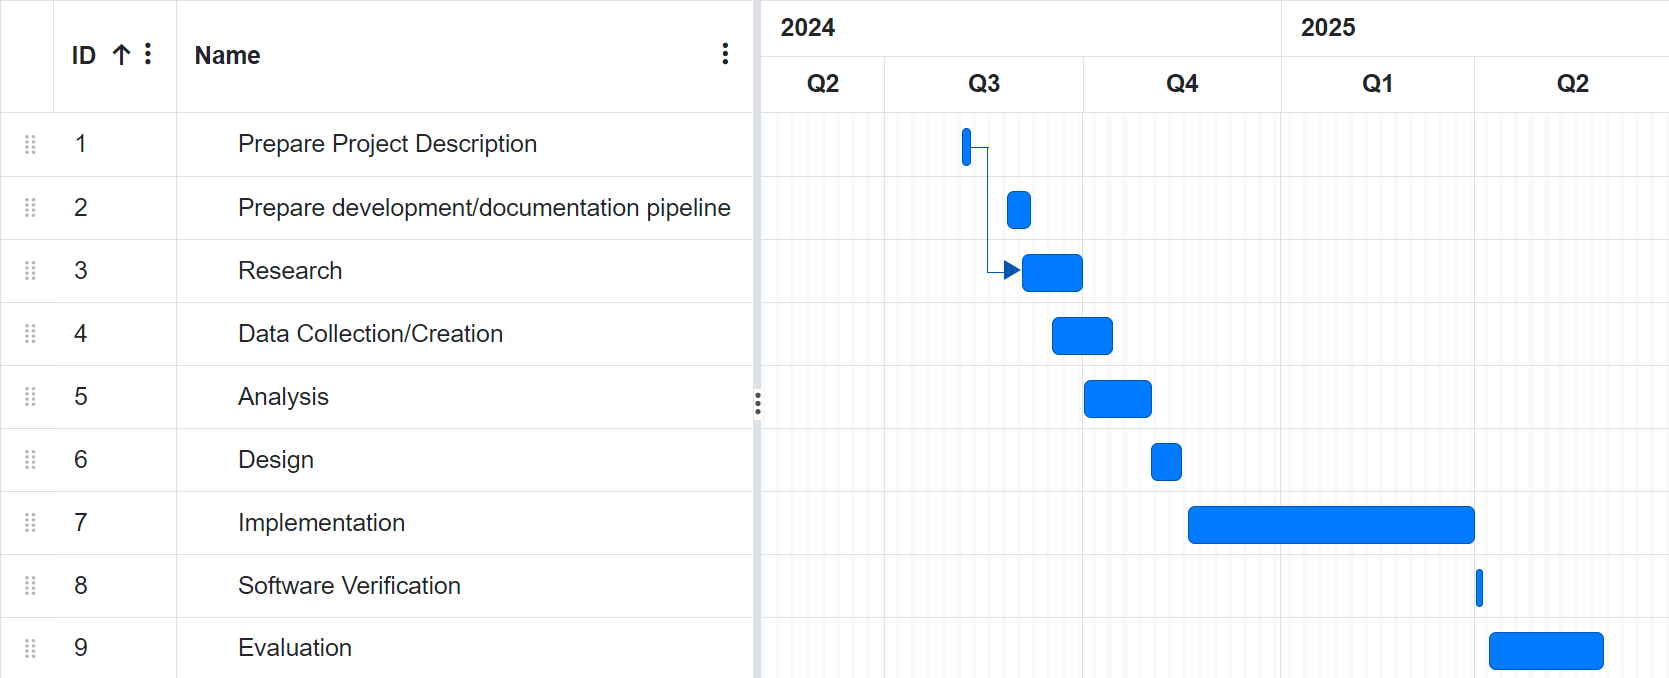
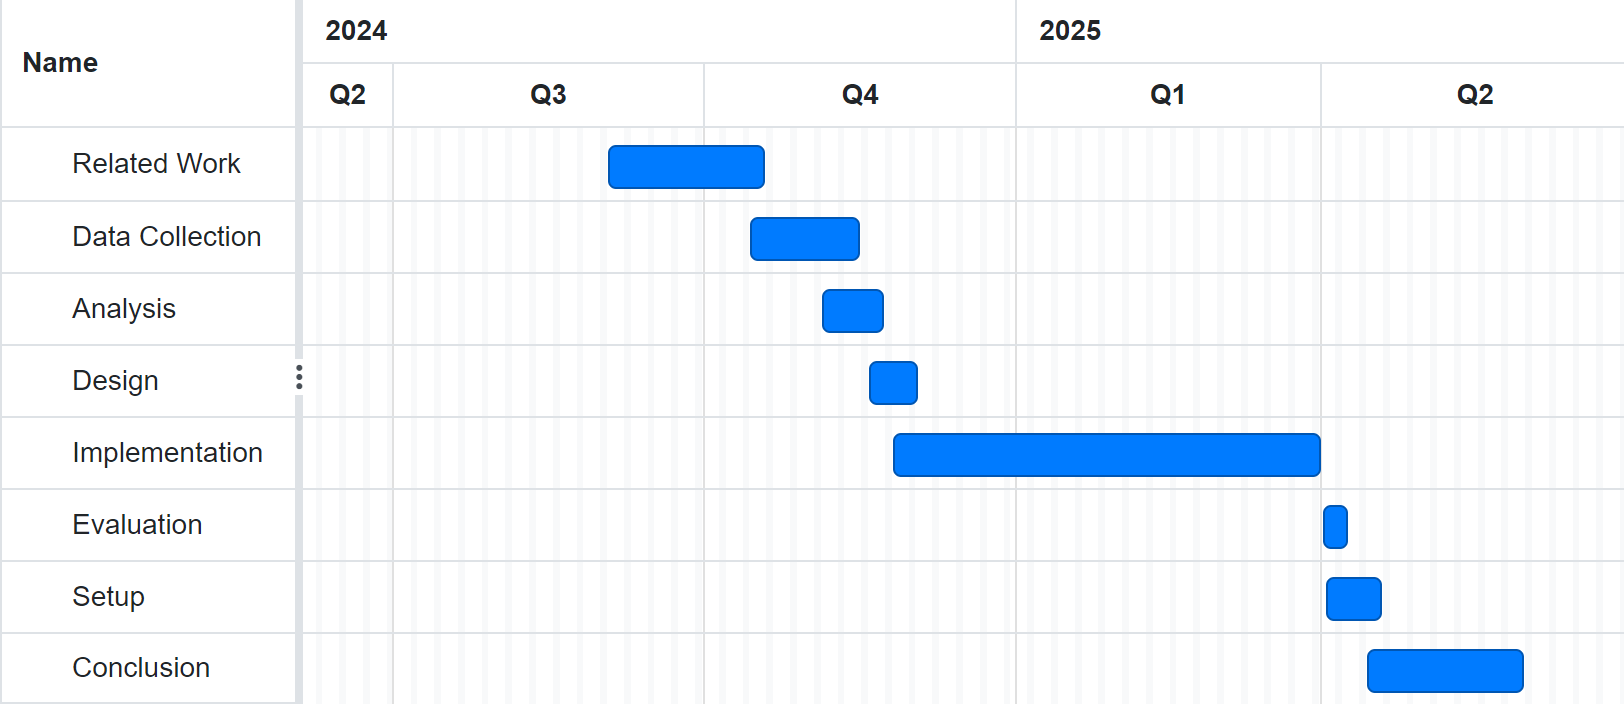
update to the problemdescription

diff --git a/Writing/Problemformulering/main.tex b/Writing/Problemformulering/main.tex
@@ -54,17 +54,18 @@ backend=bibtex
 \usetikzlibrary{snakes}
 \usepackage{rotating}
 
-\title{Title}
+\title{Event prediction using values and the relation to other values}
 \author{Simon dos Reis Spedsbjerg}
 
-\newcommand{\Phases}{7 }
+\newcommand{\Phases}{8 }
 \newcommand{\phaseq}{Related Work}
 \newcommand{\phasew}{Data Collection}
 \newcommand{\phasee}{Analysis}
 \newcommand{\phaser}{Design}
 \newcommand{\phaset}{Implementation}
-\newcommand{\phasey}{Software Evaluation}
-\newcommand{\phaseu}{Evaluation}
+\newcommand{\phaseSetup}{Setup}
+\newcommand{\phasey}{Evaluation}
+\newcommand{\phaseu}{Conclusion}
 
 \usepackage{biblatex}
 
@@ -75,36 +76,37 @@ backend=bibtex
 \begin{document}
 	\maketitle
 	\section{Context}
-		The amount of data collected forever increases, and systems ever become more dependent on the quality of the data. Faulty time series data may damage the quality of analysis that is performed on the data, and outlier data may indicate another system is failing, or an uncommon phenomenon has occurred. As sensor values rarely are independent of other environmental variables, decrease in temperature leads to increase in power consumption for heating leads to higher heating bill. While if power consumption did not rise might indicate that the people have extra cloths on or is using another heat source. The goal is to predict future events or explain current events so the administrator of the system can proactively mitigate the event. Sensors that give of data which is abnormal might indicate need for maintenance\cite{MUKHERJEE2024102444}, a specific event, or a successful intrusion into some parts of the system\cite{MR2022103046}. Information to predict events or needs has become an interest in many sectors, Mukherjee, A\cite{MUKHERJEE2024102444} cites transport, manufacturing, water, and power, while they themselves trying to predict maintenance for container cranes. Predicting ongoing events might have high importance when it comes to cyberattacks. Gauthama et al. worked on analysing possible attack detection systems in a water treatment plant using its multipoint IOT sensory system\cite{MR2022103046}.
-			
+		The amount of data collected is ever increasing, and analysis and predictive systems ever become more dependent on the quality of the data. Faulty (caused by an error in the system) or abnormal (caused by an event that does not represent the system) data may damage the quality of analysis that is performed on the data. The abnormal data point may indicate another system is failing, or an unrepresentative event is at play and may need someone to take a look at the system. As sensor values rarely are independent of environmental variables outside those they are designed to react to, we could expect a decrease in outside temperature to lead to an increase in power consumption for heating thus a higher heating bill. If a power consumption is not observed, then this may indicate that the occupants are dressing warmer or are using another heat source that we are not measuring. To be able to predict future events or explain current events can allow for proactive mitigation. Sensors that give data that is abnormal might indicate the need for maintenance\cite{MUKHERJEE2024102444}, an upcoming domain specific event, or a successful intrusion into some parts of the system\cite{MR2022103046}. Information to predict events or needs has become an interest in many sectors. Mukherjee, A\cite{MUKHERJEE2024102444} cites the transport, manufacturing, water, and power domains, while they try to predict maintenance for container cranes. Predicting ongoing events might be important when it comes to cyberattacks. Gauthama et al. worked on predicting an ongoing event of a possible attack in a water treatment plant using its multipoint IoT sensory system\cite{MR2022103046}.
+		I define \gls{reps} as a system that attempts to predict an event based on changes to a value and values which it shares any form of relation with. A value could be a value read from a sensor.
+
 	\section{Problem}
-		I define \gls{reps} as a system which attempts to predict an event based on changes to a variable and variables which it shares any form of relation with.\\
 		Research Questions:
 		\begin{itemize}
-			\item RQ1: What is the benefit of a \gls{reps} in a system with multiple sensors?
-			\item RQ2: What advantages and disadvantages does \gls{reps} have compared to state-of-the-art solutions?
+			\item RQ1: How well does \gls{reps} perform in a system with multiple sensors?
+			\item RQ2: What advantages and disadvantages does \gls{reps} have compared to other state-of-the-art solutions?
 		\end{itemize}
 	\newpage
 	\section{Approach}
-		To find answers to the research questions, I propose 2 approaches: 
+		To find answers to the research questions, I choose either of 2 approaches depending on availability of data: 
 		\begin{itemize}
-			\item \textbf{Qualitative Comparison}, using the data I will simulate a real-life system using separate computers as individual systems where my system, \gls{reps}, will try to make predictions. I will also implement other algorithms that tries to solve the same or similar problems, and make qualitative comparisons to determine whether \gls{reps} has any validity.
-			\item \textbf{Digital Twin}, The second approach is to set up digital twins of systems where the \gls{reps} would be a fit and generate the data live and then compare it to state-of-the-art solutions to determine the validity of \gls{reps} system. This will require constant attention that the digital twins do not give an advantage to \gls{reps} when compared to other algorithms which solves the same problem.
+			\item \textbf{Data Based Prediction}, using the data I will simulate a real-life system using separate computers as individual systems where the \gls{reps} will try to make predictions. I will also make use other publicly available algorithms that tries to solve the same or similar problems, and make qualitative comparisons to determine whether \gls{reps} has validity.
+			\item \textbf{Digital Twin}, defined as digital model of a physical system. The second approach is to set up digital twins of systems where the \gls{reps} would generate data live and then compare it to similar publicly available solutions to determine the validity of \gls{reps} system. This will require constant attention that the digital twins do not give an unfair advantage to \gls{reps} when compared to other algorithms to avoid bias towards \gls{reps}.
 		\end{itemize}
-		 
+		Then a comparison between the \gls{reps} and other available algorithms is performed where they will be measured for any relevant attributes in performing their task in predicting future events and thereby answering the research questions.
 		
 		
 	\section{Timeline}
-	I intend to go into \Phases phases during this project.
-		\begin{itemize}
+	I intend to go into \Phases phases during this project. This timeline will most likely change during the project as many unknowns still exists, but it serves as a subjective view of the time needed for the different phases based on my previous experience.
+		\begin{enumerate}
 			\item \textbf{\phaseq}, develop a clear and thorough understanding of the current state of research in anomaly detection and 'fault detection and diagnosis' by creating a systematic literature review of the subjects.
 			\item \textbf{\phasew}, Collect or create relevant data depending on the results of the \phaseq \space which is relevant to the subject. As the results will be drawn on the solution's ability to handle the data, the quality of the data has a high impact on the project.
 			\item \textbf{\phasee}, analyse the problem with the help of software engineering methods based on the \phaseq \space results.
-			\item \textbf{\phaser}, design a theoretical solution to the problem specified in the \phasee \space phase with software engineering methods.
-			\item \textbf{\phaset}, develop the project based on the results of the \phasee \space and \phaser \space using software engineering methods. This includes setup for any experimentations.
-			\item \textbf{\phasey}, how well does the solution fulfil the requirements determined in the \phasee \space phase and does it implement all features which is deemed critical .
-			\item \textbf{\phaseu}, verify the results from the project and check if it fulfils the hypothesis. From this, draw a conclusion.
-		\end{itemize}
+			\item \textbf{\phaser}, design a solution to the problem specified in the \phasee \space phase with software engineering methods so it can be efficiently implemented.
+			\item \textbf{\phaset}, develop the project based on the results of the \phasee \space and the \phaser \space using software engineering methods. This includes setup for any experimentations.
+			\item \textbf{\phasey}, how well does the solution fulfil the requirements determined in the \phasee \space phase and does it implement all features which is deemed critical.
+			\item \textbf{\phaseSetup}, the setup may involve many tools which need setup, this could be for stress testing, having several data producers on each their own services.
+			\item \textbf{\phaseu}, Evaluate the results from the project and how well the results answers the research questions. From this, draw a conclusion.
+		\end{enumerate}
 	
 	In the following, we see the expected timeline for the project.\newline
 	%Timeline
@@ -121,41 +123,47 @@ backend=bibtex
 			\draw (-6,0) node[below=3pt] {\begin{turn}{45}\scriptsize 04/08$\rightarrow$09/08\end{turn}}
 			node[above=3pt] {\scriptsize\begin{turn}{45}Problem Description\end{turn}}; %start date
 			\draw (-4.5,0)
-			node[below=3pt] {\begin{turn}{45}\scriptsize 02/09$\rightarrow$30/09\end{turn}}
+			node[below=3pt] {\begin{turn}{45}\scriptsize 02/09$\rightarrow$18/10\end{turn}}
 			node[above=3pt] {\scriptsize\begin{turn}{45}\phaseq\end{turn}};
 			
 			\draw (-3,0)
-			node[below=3pt] {\begin{turn}{45}\scriptsize 16/09$\rightarrow$14/10\end{turn}}
+			node[below=3pt] {\begin{turn}{45}\scriptsize 14/10$\rightarrow$15/11\end{turn}}
 			node[above=3pt] {\scriptsize\begin{turn}{45}
 					\phasew
 			\end{turn}};
 			
 			\draw (-1.5,0)
-			node[below=3pt] {\begin{turn}{45}\scriptsize 01/10$\rightarrow$01/11\end{turn}}
+			node[below=3pt] {\begin{turn}{45}\scriptsize 04/11$\rightarrow$22/11\end{turn}}
 			node[above=3pt] {\scriptsize\begin{turn}{45}
 					\phasee
 			\end{turn}};
 			
 			\draw (0,0)
-			node[below=3pt] {\begin{turn}{45}\scriptsize 01/11$\rightarrow$15/11\end{turn}}
+			node[below=3pt] {\begin{turn}{45}\scriptsize 18/11$\rightarrow$2/12\end{turn}}
 			node[above=3pt] {\scriptsize\begin{turn}{45}
 					\phaser
 			\end{turn}};
 			
 			\draw (1.5,0)
-			node[below=3pt] {\begin{turn}{45}\scriptsize 18/11$\rightarrow$31/03\end{turn}}
+			node[below=3pt] {\begin{turn}{45}\scriptsize 25/11$\rightarrow$31/03\end{turn}}
 			node[above=3pt] {\scriptsize\begin{turn}{45}
 					\phaset
 			\end{turn}};
 			
 			\draw (3,0)
-			node[below=3pt] {\begin{turn}{45}\scriptsize 01/04$\rightarrow$04/04\end{turn}}
+			node[below=3pt] {\begin{turn}{45}\scriptsize 01/04$\rightarrow$08/04\end{turn}}
 			node[above=3pt] {\scriptsize\begin{turn}{45}
 					\phasey
 			\end{turn}};
 			
+			\draw (3.75,0)
+			node[below=3pt] {\begin{turn}{45}\scriptsize 02/04$\rightarrow$18/04\end{turn}}
+			node[above=3pt] {\scriptsize\begin{turn}{45}
+					\phaseSetup
+			\end{turn}};
+			
 			\draw (4.5,0)
-			node[below=3pt] {\begin{turn}{45}\scriptsize 07/04$\rightarrow$30/05\end{turn}}
+			node[below=3pt] {\begin{turn}{45}\scriptsize 14/04$\rightarrow$30/05\end{turn}}
 			node[above=3pt] {\scriptsize\begin{turn}{45}
 					\phaseu
 			\end{turn}};
@@ -163,14 +171,13 @@ backend=bibtex
 			\draw (6,0) node[below=3pt]{\begin{turn}{45}\scriptsize 30/05$\rightarrow$END\end{turn}} node[above=3pt] {\scriptsize\begin{turn}{45} Finish \end{turn}};%end date
 		\end{tikzpicture}
 	\end{center}
-	{\scriptsize a Gantt version exists in appendix}\\
 	Every 1-4 weeks a plan will be made detailing the coming weeks' task. Each time a plan is made, the previous weeks will be documented on what went well, okay, not so well, and terribly. This is so the supervisor and I can create a perspective and course correct if need be.
 	
-	The plan is to hold meetings with the supervisor at least every week, an agenda will be send to the supervisor at minimum 48 hours before the meeting.
+	The plan is to hold meetings with the supervisor every week, an agenda will be send to the supervisor at minimum 48 hours before the meeting.
 
 	
 	\section{Preliminaries/Feasibility}
-		The will have a high chance of success based on the risk analysis and as long the mitigation tactics are used.
+		The project will have a high chance of success based on the risk analysis and as long the mitigation tactics are used.
 	
 		\subsection{Risk analysis}
 			The risk levels are as follows, insignificant, very low, low, medium, high, very high. This is the likelihood of the risk coming true. An impact value is also set and it has the same levels as the risk levels. Mitigation is the tactic and how well it can be mitigated if the risk were to happen. All these factors will be taken into consideration throughout the project's lifetime based on the cost-benefit.
@@ -180,9 +187,9 @@ backend=bibtex
 					\hline
 					Risk Type & Description & Risk & Impact & Mitigation & Comments \\ \hline
 					Missing Related work & There is not enough related work to form a proper ground for research & Insignificant & Very high & Reformulate research question & Already from the research that I have read for this topic, it is clear that there is more than enough. \\ \hline
-					Unable to gather data for simulations & Either I am able to gain the data or I will have to set up some form of a digital twin. & Medium & Medium & Set up digital twins; what the twin is of will be decided after going through related work & The twin is not intended to fit perfectly with the system that I intend to implement, it is supposed to be used to decide whether it is in general a possible solution to the problem while comparing it to other solutions whose goal is to solve the same problem.\\ \hline
+					Unable to gather data for simulations & Either I am able to find the data or I will have to set up some form of a digital twin. & Medium & Medium & Set up digital twins; what the twin is of will be decided after going through related work & The twin is not intended to fit perfectly with the system that I intend to implement, it is supposed to be used to decide whether it is in general a possible solution to the problem while comparing it to other solutions whose goal is to solve the same problem.\\ \hline
 					Collected data or Twin is over-fitted for the implementation & Over-fitting means that it just fits too well for this specific case but will not give similar results in other similar scenarios which would fail the project. & Medium & Very High & As long as this is kept in mind throughout the project with the intention it should not fit perfectly, it should not be a problem. & The problem will most likely happen if this is forgotten about, emphasising constant thought and care about this problem. \\ \hline
-					Implementation fails & The implemented code is in a state where it fails to give useful results that allow me to answer the research questions. & Very low & Very High & Implement only 'must have' requirements and scale the system down in size & In my opinion is scaleable, while scaling down will give a worse result, it will allow for the completion of the project. \\ \hline
+					Implementation fails & The implemented code is in a state where it fails to give useful results that allow me to answer the research questions. & Very low & Very High & Implement only 'must have' requirements and scale the system down in size. Performing iterations can ensure an early viable product and lower cost upon failure of an iteration & In my opinion is scaleable, while scaling down will give a worse result, it will allow for the completion of the project. \\ \hline
 				\end{tabular}
 			\end{center}
 			}
